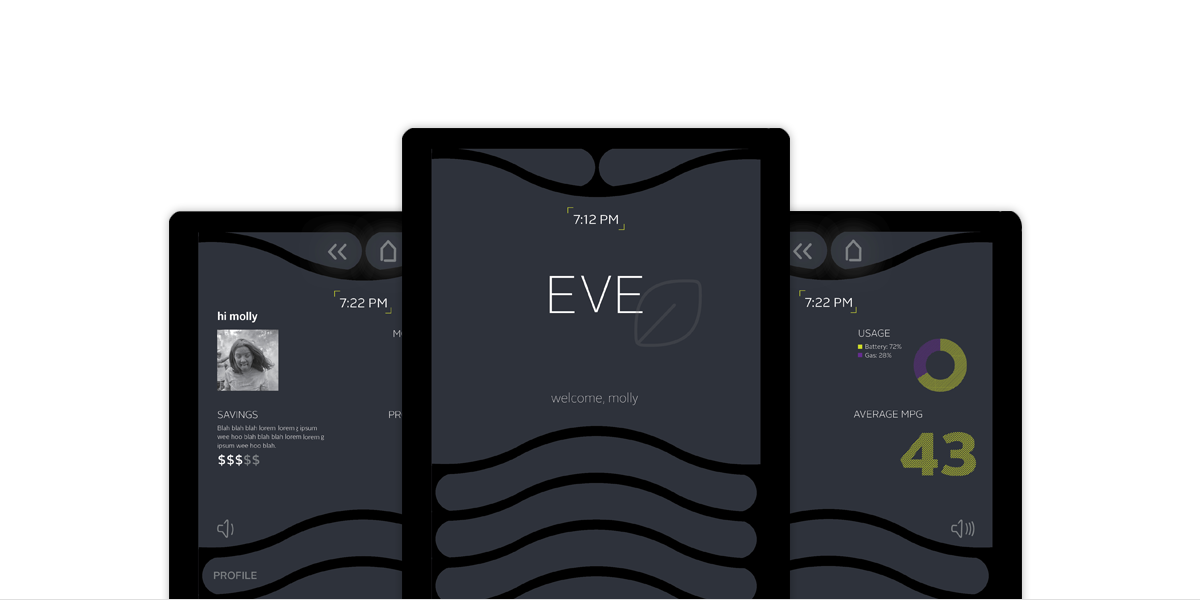
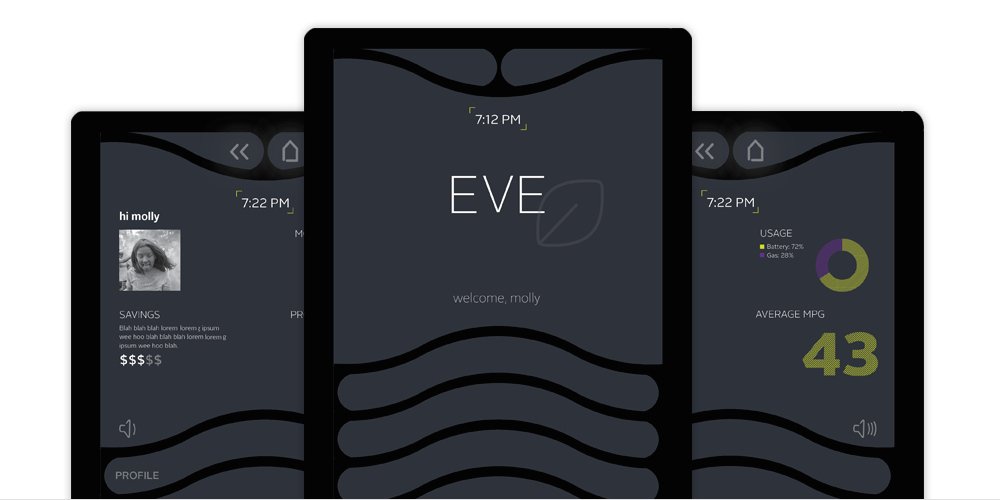
Adjusted image sizes. Added music image

diff --git a/index.html b/index.html
@@ -188,11 +188,11 @@
 			        </div>
 				</div>	
    
-                <img id="centerStack" src="images/centerStack.png" />
+                <div id="centerStack"></div>
                 
-                <div id="music" class="rightPanelContent">
+                <div id="bezel" class="rightPanelContent">
                     <div class="image"></div>
-                    <div class="caption"></div>
+                    <div class="caption">Custom manufactured bezel to help the driver feel secitons of the screen without looking.</div>
                 </div>
                 <div class="leftPanelContent">
 				
@@ -205,6 +205,14 @@
                        <br>
                        Furthermore, gentle but clear vibrations upon interaction provide worthwhile cues to the user to accomplish their task. Therefore, EVE offers easy steps and measures to enjoy its Apps without sacrificing safety.
                     </p>
+
+                </div>
+                
+                <div id="music" class="rightPanelContent">
+                    <div class="image"></div>
+                    <div class="caption">The EVE music app demonstrating how to select an album.</div>
+                </div>
+                <div class="leftPanelContent">
 					
 			        <h2>
                         Apps
@@ -238,7 +246,7 @@
 				
                 <div id="freeScale" class="rightPanelContent">
                     <div class="image"></div>
-                    <div class="caption">EVE uses the freescale i.MX6 Microprocessor for low power consumption.</div>
+                    <div class="caption">EVE uses the freescale i.MX6 Microprocessor for low power consumption, low cost, and small form factor.</div>
                 </div>
                 <div class="leftPanelContent">
 				

diff --git a/css/main.css b/css/main.css
@@ -71,9 +71,20 @@ b {
   font-weight: normal;
 }
 
+a {
+  color: rgb(207, 227, 60);
+  text-decoration: none;
+}
+
+a:hover {
+  color: rgb(187, 207, 50);
+  text-decoration: none;
+}
+
 .rightPanelContent {
-  width: 40%;
-  min-height: 300px;
+  float: right;
+  width: 480px;
+  clear: right;
 }
 
 .leftPanelContent {
@@ -226,7 +237,7 @@ b {
 }
 
 #teamPics #image2 {
-  height: 351px;
+  height: 320px;
   background-image: url('../images/teamPicture.jpg');
 }
 
@@ -237,12 +248,6 @@ b {
 #playbook .image {
   height: 320px;
   background-image: url('../images/playbook.jpg');
-}
-
-#teamPics, #playbook, #ecoTeamPic {
-  float: right;
-  width: 40%; 
-  height: 30%;
 }
 
 #otherNames {
@@ -267,7 +272,7 @@ b {
 }
 
 #mainGoals {
-  width: 1200px;
+  overflow: auto;
 }
 
 #freeScale .image {
@@ -276,20 +281,22 @@ b {
   background-image: url('../images/imx6.jpg');
 }
 
-#music .image {
-  margin-top: 150px;   
-  height: 500px;
-  background-image: url('../images/music.jpg');
+#bezel .image { 
+  height: 480px;
+  background-image: url('../images/bezel.png');
 }
 
-#freeScale, #music {
-  float: right;
-  width: 40%; 
-  height: 70%;
+#music .image { 
+  height: 742px;
+  background-image: url('../images/music.png');
 }
 
 #centerStack {
-  margin-bottom: 40px;
+  width: 1000px;
+  height: 500px;
+  background-image: url('../images/centerStack.png');
+  margin: 40px auto 40px auto;
+  clear: both;
 }
 
 /*
